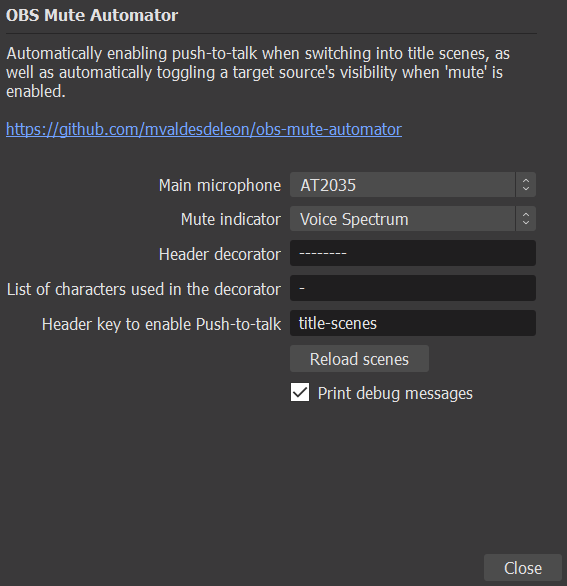
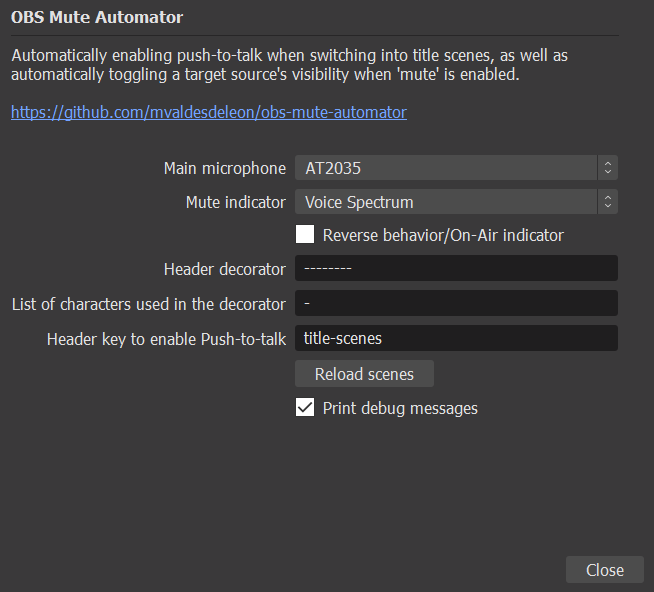
feat: on-air indicator

Changed region(s): [[0.0, 0.0, 0.9594, 0.7065], [0.8695, 0.9522, 0.9594, 0.9829]]

diff --git a/mute-automator.py b/mute-automator.py
@@ -4,6 +4,7 @@ import pprint as pp
 # User properties
 main_microphone = ''
 mute_indicator = ''
+mute_indicator_negate = False
 header_decorator = '--------'
 header_pattern = '- '
 push_to_talk_key = 'title-scenes'
@@ -74,6 +75,8 @@ def update_mute_indicator(mute_indicator, main_microphone):
 
     dprint(f'Main microphone {status}')
 
+    if mute_indicator_negate:
+        muted = not muted
     set_mute_indicator(mute_indicator, muted)
 
     obs.obs_source_release(source)
@@ -85,6 +88,8 @@ def mute_callback(calldata):
 
     dprint(f'Main microphone {status}')
 
+    if mute_indicator_negate:
+        muted = not muted
     set_mute_indicator(active_mute_indicator, muted)
 
 def remove_mute_callback(main_microphone):
@@ -262,10 +267,11 @@ def script_description():
         '<a href="https://github.com/mvaldesdeleon/obs-mute-automator">https://github.com/mvaldesdeleon/obs-mute-automator</a>'
 
 def script_update(settings):
-    global main_microphone, mute_indicator, header_decorator, header_pattern, push_to_talk_key, debug, push_to_talk, active_main_microphone, active_mute_indicator
+    global main_microphone, mute_indicator, mute_indicator_negate, header_decorator, header_pattern, push_to_talk_key, debug, push_to_talk, active_main_microphone, active_mute_indicator
 
     main_microphone = obs.obs_data_get_string(settings, 'main-microphone')
     mute_indicator = obs.obs_data_get_string(settings, 'mute-indicator')
+    mute_indicator_negate = obs.obs_data_get_bool(settings, 'mute-indicator-negate')
     header_decorator = obs.obs_data_get_string(settings, 'header-decorator')
     header_pattern = obs.obs_data_get_string(settings, 'header-pattern')
     push_to_talk_key = obs.obs_data_get_string(settings, 'push-to-talk-key')
@@ -278,17 +284,19 @@ def script_update(settings):
             push_to_talk = False
             active_main_microphone = main_microphone
             create_mute_callback(main_microphone)
-            update_mute_indicator(mute_indicator, main_microphone)
+            # update_mute_indicator(mute_indicator, main_microphone)
         if mute_indicator and mute_indicator != active_mute_indicator:
             restore_mute_indicator(active_mute_indicator)
             active_mute_indicator = mute_indicator
-            update_mute_indicator(mute_indicator, main_microphone)
+            # update_mute_indicator(mute_indicator, main_microphone)
+        update_mute_indicator(mute_indicator, main_microphone)
         fetch_scenes()
         check_current_scene()
 
 def script_defaults(settings):
     obs.obs_data_set_default_string(settings, 'main-microphone', main_microphone)
     obs.obs_data_set_default_string(settings, 'mute-indicator', mute_indicator)
+    obs.obs_data_set_default_bool(settings, 'mute-indicator-negate', mute_indicator_negate)
     obs.obs_data_set_default_string(settings, 'header-decorator', header_decorator)
     obs.obs_data_set_default_string(settings, 'header-pattern', header_pattern)
     obs.obs_data_set_default_string(settings, 'push-to-talk-key', push_to_talk_key)
@@ -305,6 +313,7 @@ def script_properties():
     for name in list_video_sources():
         obs.obs_property_list_add_string(video_source_list, name, name)
 
+    obs.obs_properties_add_bool(props, 'mute-indicator-negate', 'Reverse behavior/On-Air indicator')
     obs.obs_properties_add_text(props, 'header-decorator', 'Header decorator', obs.OBS_TEXT_DEFAULT)
     obs.obs_properties_add_text(props, 'header-pattern', 'List of characters used in the decorator', obs.OBS_TEXT_DEFAULT)
     obs.obs_properties_add_text(props, 'push-to-talk-key', 'Header key to enable Push-to-talk', obs.OBS_TEXT_DEFAULT)

diff --git a/README.md b/README.md
@@ -22,6 +22,7 @@ Python scripts require Python to be installed on your computer. Due to [limitati
 
 **Main microphone**: Audio source to be used as the main microphone.  
 **Mute indicator**: Video source to be used as the mute indicator.  
+**Reverse behavior/On-Air indicator**: Treat the mute indicator as an On-Air indicator instead. It will be enabled when the main microphone is unmuted, and disabled when its muted.
 **Header decorator**: Used to identify your Scenes structure. If you use Separator scenes named `### My Separator ###`, then you would use `###` as the decorator.  
 **List of characters used in the decorator**: Used to strip down the decorators from the Separator scenes' names. Be sure to include whitespace characters if needed. For the above example, you would use `# ` as the list of characters.  
 **Header key to enable Push-to-talk**: Used to enable Push-to-talk when Scenes from this Header are enabled. Separator scenes' names are stripped from separators, lowercased, and spaces are replaced by hyphens. For my current configuration, I use `title-scenes`.  
@@ -40,7 +41,7 @@ The push-to-talk capability of OBS does not interact with its mute capability. W
 
 * [ ] Increase configurability.
   * [x] Expose header key for enabling push-to-talk.
-  * [ ] Offer to toggle the behaviour of the mute indicator so that the Video source is **enabled** when the main microhone Audio source is **unmuted**.
+  * [x] Offer to toggle the behaviour of the mute indicator so that the Video source is **enabled** when the main microhone Audio source is **unmuted**.
 * [ ] Allow enabling/disabling each of the main features.
 * [x] Clean-up code.
 
